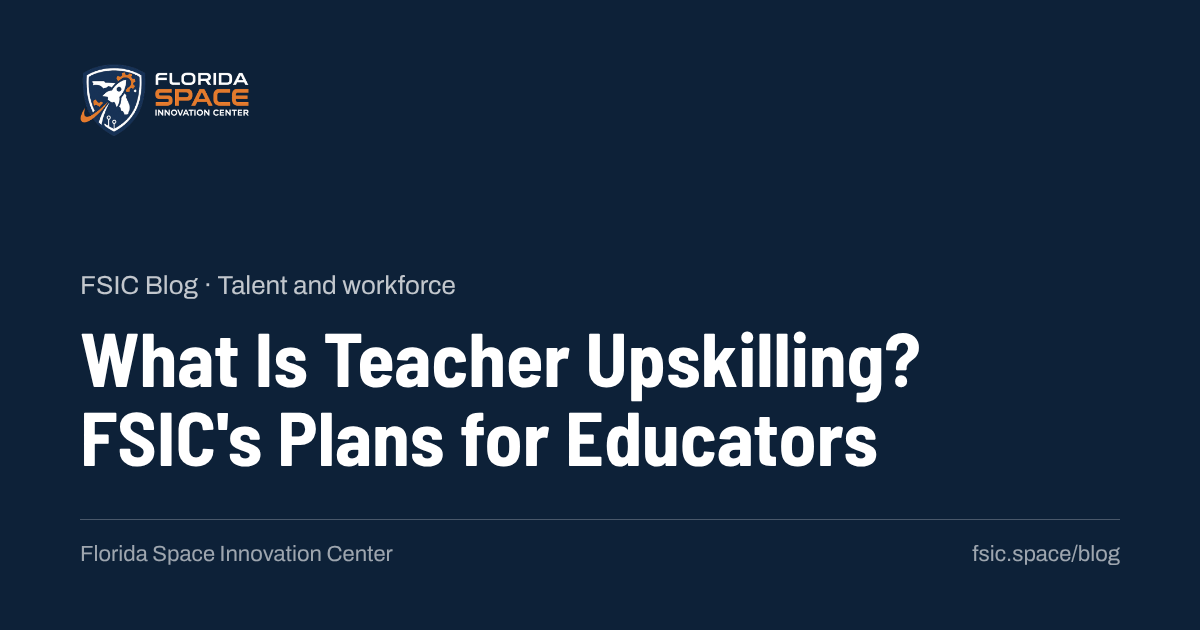
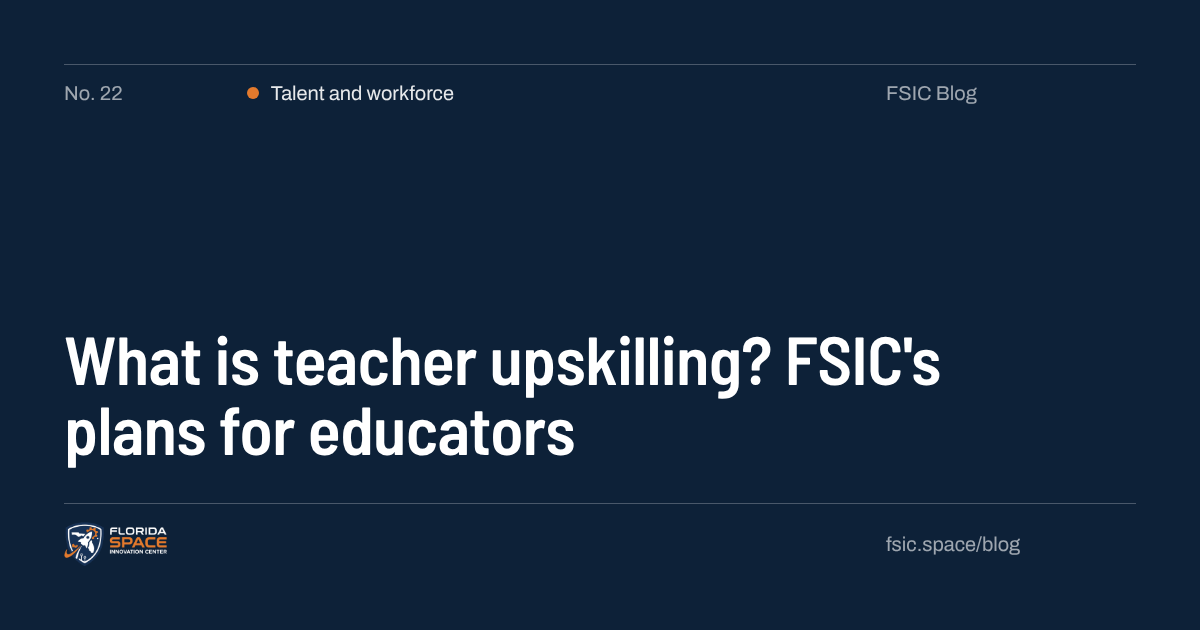
Blog: Swiss share cards on the site's grid
Every card is rebuilt on the 12-column grid: a top hairline with the
question's number (its place in the plan), its topic and a meaning-coded dot,
and FSIC Blog; the headline in sentence case, flush left, anchored low; a foot
hairline with the logo and address. Sentence case keeps acronyms (FSIC, R&D)
and proper names (Civic Engine, Space Coast) and cases hyphenated words part
by part. All 28 cards regenerated; DESIGN.md and docs/14 describe the card.

Claude-Session: https://claude.ai/code/session_01HcFqXsAHjDER99z1PX36Vs

diff --git a/DESIGN.md b/DESIGN.md
@@ -160,6 +160,7 @@ Don't put the hero photo on interior pages.
 - Prefer real photographs of the region (lagoon, beach launch viewing, local classrooms and shops) when they become available. Don't use stock rockets or astronauts.
 - **Homepage hero photo** (`src/assets/fsic-hero.png`, through `astro:assets` so it's resized per screen; owned by FSIC, confirmed November 2026, so no credit or caption): a launch plume seen from the dunes, full-bleed behind the hero text from `md` up. There the text sits over the open sky on the left; a `night` gradient keeps it readable (left to right at `lg`, top to bottom at `md`). On phones (below `md`) the photo is a band across the top, undimmed, and the text follows below it on `night`: the plume is the first thing a phone shows. The headline's whole first line sits on the photo (48px overlap; the photo's bottom edge, where `night` starts, doesn't move); only the bottom third of the photo (the low sky, surf and dunes) darkens toward `night` under it, so the upper sky and plume stay undimmed. The band is at least as tall as the photo's proportions (`max(46svh, 62.5vw)`), so only its sides are cropped, never the top or the dunes. The photo always shows its full height, plume tip to dunes: it is anchored right at the hero's height and never scaled to the width, so wide screens don't crop the top. On screens wider than the photo, its left edge fades into `night` (`.hero-photo` mask in `global.css`); below `md` it is cropped to the plume (`object-position` 78%). Check contrast against the lightest pixel under each text block when changing the photo or the gradient (it measured 6.0:1 or better at 375, 640, 768, 1024, 1280, 1600 and 2328 px; since the phone layout of November 2026: 6.0:1 or better at 320–767 px, where the headline overlaps the photo). The source is 1440×900; a larger original would look sharper on large and high-density screens. It's the homepage's signature element (see above).
 - **The regional map** (`RegionMap`; off the homepage for now, `docs/24`): Census Bureau county outlines drawn flat on the page (navy at 6%, Volusia lagoon at 15%), white county lines, dashed straight-line distances, and markers in their meanings (lagoon: Southeast Volusia's communities; orange: the launch complexes; navy: other places). Labels are HTML over the drawing so they keep their size on phones. It marks no campus site. Regenerate it with `scripts/region-map.mjs`.
+- **Blog share cards** (`scripts/blog-cards.mjs`, `docs/14` §4): Swiss in construction, on the site's grid. Night ground; 64px margins and the 12 columns; a hairline at the top with the question's number (cols 1–2), the topic and its dot (cols 3–9, orange for the Talent, Innovation and Market topics, lagoon-light for Community, white for the rest) and "FSIC Blog" (cols 10–12); the headline in Barlow Semi Condensed 600, sentence case, flush left over cols 1–10 and anchored to the foot; a hairline foot with the logo (cols 1–3) and the address (cols 10–12). White type at /90 and /60 only. No imagery.
 - **Press release graphics** (`src/content/news/images/`) are shown as FSIC published them, only on the News pages: beside the text in the label column of a release page (after the text on small screens, `max-w-xs`, so the first paragraph isn't pushed below the fold), and as a thumbnail under the date on the list at `lg`, all at one height (`h-32`, width follows the graphic) so rows keep one rhythm. The thumbnail links to the release but is hidden from keyboard and screen readers (the headline is the same link). They are the one exception to the color and imagery rules above, because they are part of the published release. Don't crop them, add text over them, or reuse them elsewhere on the site.
 
 ## Motion

diff --git a/docs/14-blog-content-strategy.md b/docs/14-blog-content-strategy.md
@@ -85,7 +85,7 @@ Answer engines quote short, self-contained passages that state facts plainly, an
 | **Author** (`author`) | A real person at FSIC with their role, or FSIC itself (`src/data/authors.ts`) | Experience and accountability (E-E-A-T) | Required |
 | **Dates** (`date`, `updated`) | Publication date; `updated` only when the substance changes | Freshness signals; honest dating | `updated` ≥ `date` |
 | **At a glance** (`visual`, optional) | One figure under the summary, drawn from the site's data so it can't drift from its source: `diagram` (`job-years`, `scenarios`), `figures` (keys of `FIGURES`, shown as range bars with the legend and disclaimer) and/or `phases` (1–5: where the post's subject sits on the Years 1–5 track). Use it when the answer has a shape (a range, a comparison, a timeframe); leave it off when it doesn't | A reader sees the answer's shape before reading it; the same visual language as the pages | Keys checked by the schema |
-| **Share image** (`image`) | The post's card: `npm run blog-cards` makes a 1200 × 630 card with the headline and topic in the site's type (`src/content/blog/images/<slug>.png`) and sets `image` and `imageAlt`. Remake with `-- --all` after a headline changes. A real, owned photograph may replace it. No stock rockets or astronauts (DESIGN.md) | Share previews on LinkedIn, Facebook and X show the question, not the homepage photo | `imageAlt` with `image` |
+| **Share image** (`image`) | The post's card: `npm run blog-cards` makes a 1200 × 630 card on the site's 12-column grid: a hairline carrying the question's number (its place in the plan), its topic with a meaning-coded dot and "FSIC Blog"; the headline in sentence case, flush left and anchored low; a hairline foot with the logo and address (`src/content/blog/images/<slug>.png`) and sets `image` and `imageAlt`. Remake with `-- --all` after a headline changes. A real, owned photograph may replace it. No stock rockets or astronauts (DESIGN.md) | Share previews on LinkedIn, Facebook and X show the question, not the homepage photo | `imageAlt` with `image` |
 
 **Length:** as long as the question needs. Most explainers run 600–1,200 words. Don't pad: answer engines and readers both prefer the shortest complete answer.
 
